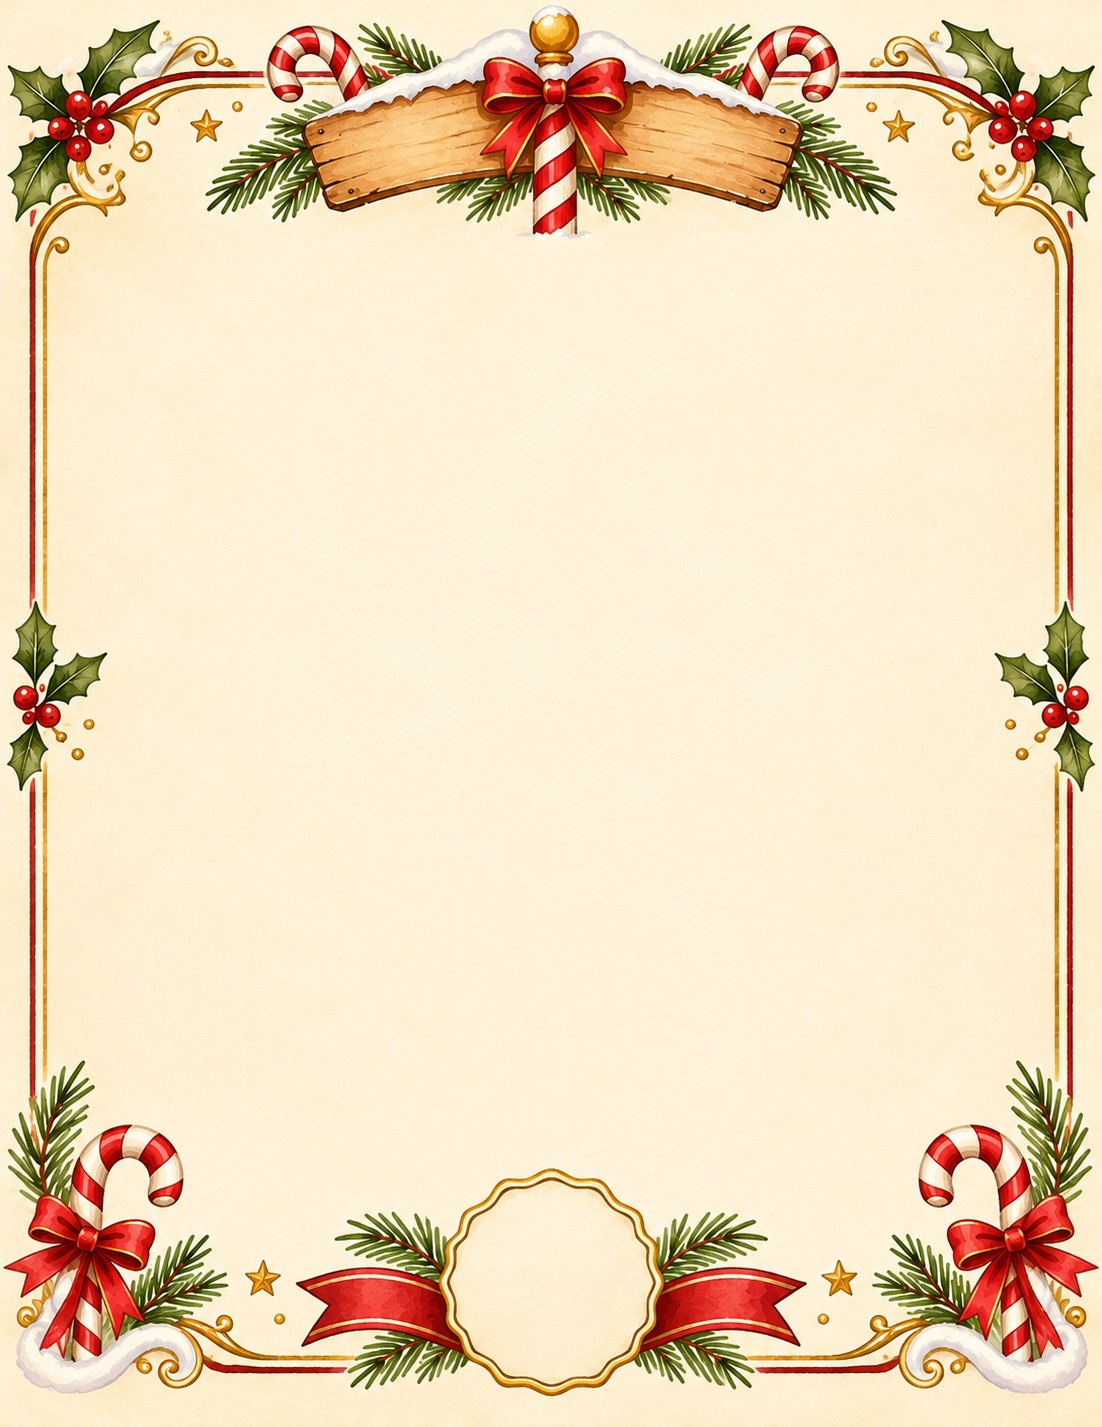
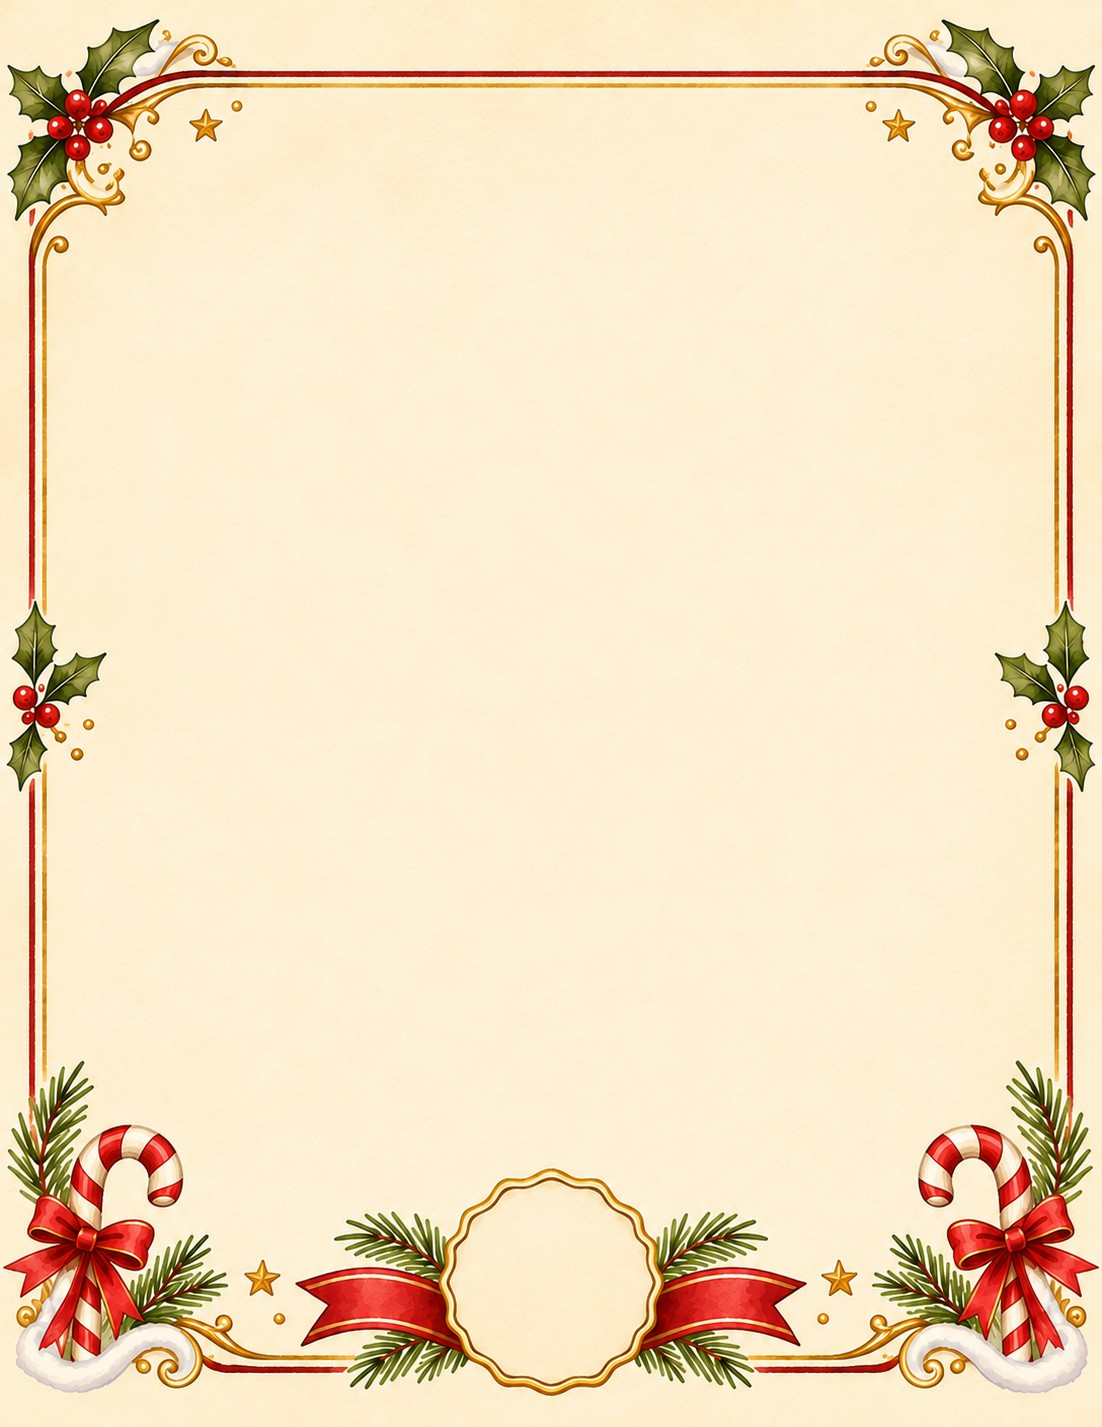
New certificate art, seal centered in medallion, Christmas colors for the page

diff --git a/index.html b/index.html
@@ -6,7 +6,7 @@
 <title>Santa Noticed: a letter from Santa that sounds like he was watching</title>
 <link href="https://fonts.googleapis.com/css2?family=Cormorant+Garamond:ital,wght@0,400;0,500;0,600;1,400&family=DM+Sans:wght@300;400;500&family=Great+Vibes&display=swap" rel="stylesheet">
 <style>
-:root{--bg:#FCF5F3;--card:#FFFFFF;--blush:#F6E9EE;--border:rgba(126,78,97,0.16);--peach:#E8D5DC;--plum:#7E4E61;--plum-2:#9B6B7D;--ink:#3B2A3A;--mid:#5A3A4C;--light:#9B6B7D;--red:#9E2A2B;--green:#2F5D46;}
+:root{--bg:#FBF3E4;--card:#FFFDF8;--blush:#F5E6CB;--border:rgba(158,42,43,0.20);--peach:#E2CBA0;--plum:#9E2A2B;--plum-2:#B83B3B;--ink:#3A2A1E;--mid:#5A4030;--light:#8A6A4A;--red:#9E2A2B;--green:#2F5D46;}
 *{box-sizing:border-box;margin:0;padding:0;}
 body{background:var(--bg);font-family:'DM Sans',sans-serif;color:var(--mid);font-size:15px;line-height:1.6;}
 .page{max-width:760px;margin:0 auto;padding:28px 20px 80px;}
@@ -18,7 +18,7 @@ h1{font-family:'Cormorant Garamond',serif;font-weight:500;font-size:38px;line-he
 .steps h2{font-family:'Cormorant Garamond',serif;font-weight:500;font-size:24px;color:var(--ink);margin-bottom:12px;}
 .step{display:flex;gap:14px;margin-bottom:18px;}
 .step:last-child{margin-bottom:0;}
-.n{flex:0 0 30px;height:30px;border-radius:50%;background:var(--plum);color:#fff;font-weight:500;display:flex;align-items:center;justify-content:center;}
+.n{flex:0 0 30px;height:30px;border-radius:50%;background:var(--green);color:#fff;font-weight:500;display:flex;align-items:center;justify-content:center;}
 .b{flex:1;min-width:0;}
 .b p{margin-bottom:8px;}
 button{font-family:'DM Sans',sans-serif;cursor:pointer;min-height:46px;border-radius:8px;font-size:15px;font-weight:500;padding:11px 20px;}
@@ -52,16 +52,16 @@ details pre{white-space:pre-wrap;font-size:12px;background:var(--blush);border-r
 .sign .sig{font-family:'Great Vibes',cursive;font-size:6cqw;line-height:1;color:#9E2A2B;display:block;margin-top:.4cqw;}
 .sign .sub{font-size:1.9cqw;color:#6b5844;font-style:italic;}
 .seal{position:absolute;right:15%;bottom:9.5%;width:10cqw;filter:drop-shadow(0 .4cqw .6cqw rgba(60,20,20,.35));}
-.cert .inner{left:12%;right:12%;top:19%;bottom:16%;align-items:center;text-align:center;}
-.c-small{font-family:Cinzel,'Cormorant Garamond',serif;letter-spacing:.9cqw;font-size:1.9cqw;color:#2F5D46;}
-.c-title{font-family:'Great Vibes',cursive;font-size:11.5cqw;line-height:1.05;color:#9E2A2B;}
+.cert .inner{left:12%;right:12%;top:14.5%;bottom:17%;align-items:center;text-align:center;}
+.c-small{margin-top:2cqw;font-family:Cinzel,'Cormorant Garamond',serif;letter-spacing:.9cqw;font-size:1.9cqw;color:#2F5D46;}
+.c-title{margin-top:1.6cqw;font-family:'Great Vibes',cursive;font-size:11.5cqw;line-height:1.05;color:#9E2A2B;}
 .c-word{font-family:Cinzel,'Cormorant Garamond',serif;letter-spacing:.9cqw;font-size:3.2cqw;margin-top:.4cqw;}
 .c-cert{font-family:'Cormorant Garamond',serif;font-style:italic;font-size:2.8cqw;color:#6b5844;margin-top:2.2cqw;}
 .c-name{font-family:'Great Vibes',cursive;font-size:12.5cqw;line-height:1.1;color:#3A2A1E;outline:none;min-width:30cqw;}
 .c-rule{width:46cqw;border-top:.2cqw solid #C9A24D;margin:.6cqw 0 1.6cqw;}
 .c-text{font-family:'Cormorant Garamond',serif;font-size:3cqw;line-height:1.4;max-width:60cqw;outline:none;}
-.c-sleigh{width:44cqw;margin-top:1.8cqw;}
-.c-seal{position:absolute;left:50%;bottom:6.2%;width:17cqw;transform:translateX(-50%);filter:drop-shadow(0 .5cqw .8cqw rgba(60,20,20,.35));}
+.c-sleigh{width:54cqw;margin-top:2.4cqw;}
+.c-seal{position:absolute;left:50%;top:89.2%;width:15.5cqw;transform:translate(-50%,-47%);filter:drop-shadow(0 .5cqw .8cqw rgba(60,20,20,.35));}
 .c-sign{position:absolute;bottom:8%;font-family:'Great Vibes',cursive;font-size:5.4cqw;color:#9E2A2B;line-height:1;}
 .hero{display:block;width:min(82%,520px);margin:0 auto 8px;}
 footer{text-align:center;font-size:12px;color:var(--light);margin-top:34px;}
